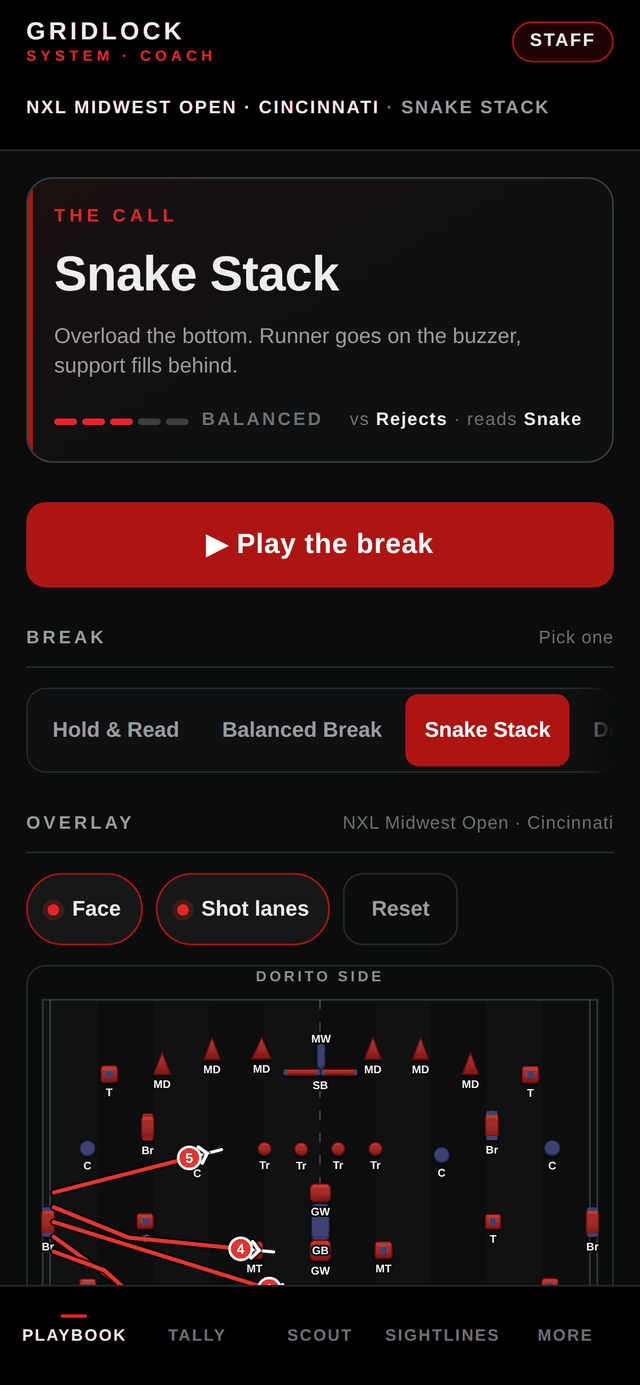
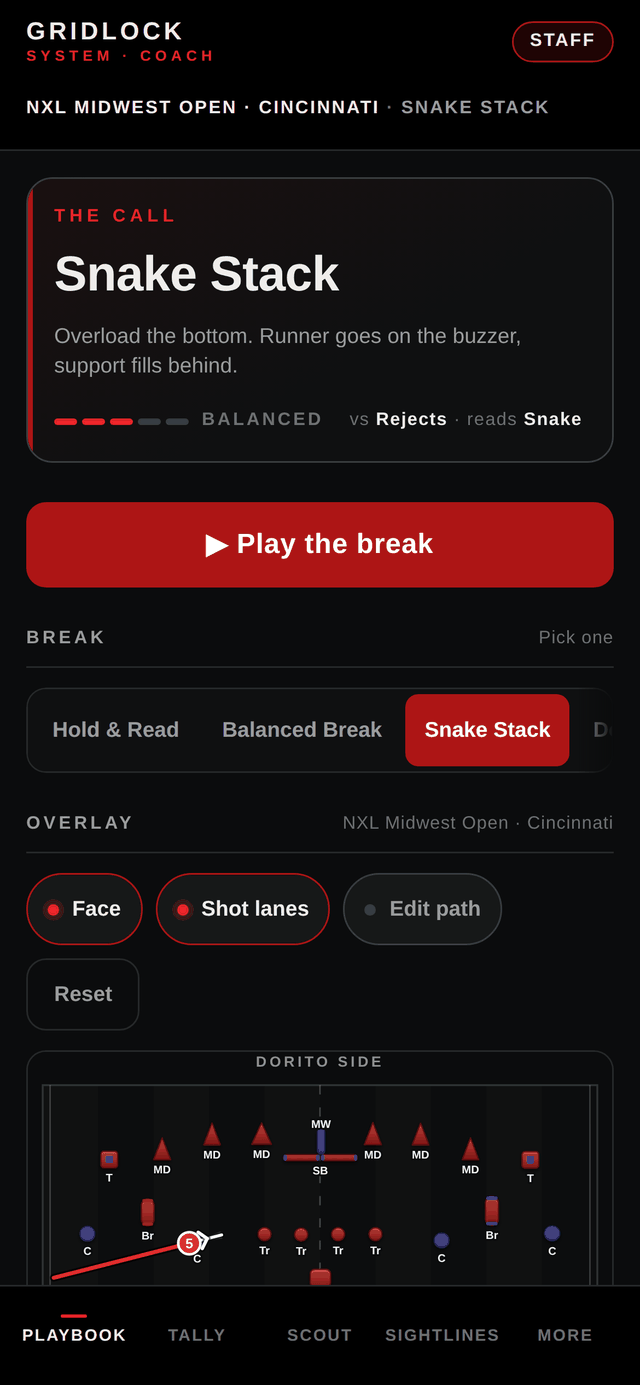
Let a coach edit the break on the field
The router works out a clear route, but the coach is the one who has walked the
field. Edit path turns every corner into a handle: drag it to move, tap it to
take it out, tap the line to put one in where you tapped, and drag a player to
point him. One path resets to the routed line, or all of them at once. Edits are
stored per layout per break per player, over the top of the route, so a leg
nobody has touched keeps the one the router proved clear.

Runs are drawn rounded now. A player does not turn a right angle, and five hard
corners on one field read as a diagram rather than a break. Rounding a corner
could in principle push the curve into the bunker the corner was avoiding, so
that is not left to the eye: the suite pulls the real path elements out of the
rendered SVG, samples them along their length, and checks every sample against
every measured footprint. All five clear.

Pointer events throughout, not mouse — the same code has to work under a thumb —
and positions convert through the SVG screen matrix rather than assuming a
scale. The drag is covered by a real pointer drag in the suite, because that is
the part most likely to break.

Two bugs found on the way: a `d` that shadowed the direction variable and made
the whole inline script fail to parse, and dataset ids arriving as text where
paths key on numbers, which made every lookup miss silently.

181/181 function checks, 61/61 device checks across 14 devices, 58/58 bunkers at
0.00 ft, load test within budget.
[…]

diff --git a/web/index.html b/web/index.html
@@ -245,6 +245,12 @@ select{appearance:none;-webkit-appearance:none;padding-right:var(--s5);
 /* ============================================================
    FIELD
    ============================================================ */
+/* Editing handles. Big enough to find under a thumb, quiet enough not to
+   fight the field when you are only looking at it. */
+.hnd{fill:#0b0c0d;stroke:#fff;stroke-width:1.6;cursor:grab}
+.hnd:active{cursor:grabbing}
+.aim{cursor:grab}
+svg.field [data-leg]{cursor:copy}
 .field-wrap{background:#0b0c0d;border:1px solid var(--line);border-radius:var(--r-md);overflow:hidden}
 svg.field{width:100%;height:auto;display:block}
 
@@ -612,10 +618,39 @@ function breakPaths(layoutKey, scriptKey){
             label: `${b.n} · ${wireOf(b.y)}`, bunker: b.id};
   });
 }
-const _pathCache = {};
+// A coach who disagrees with the route drags it. Edits are stored per layout
+// per break per player, over the top of the computed route, and any leg without
+// one keeps the route the router worked out.
+function pathKey(id){ return `${S.layoutKey}|${S.script}|${id}`; }
+function pathEdit(id){ return (S.pathEdits || {})[pathKey(id)] || null; }
+
+let _pathCache = {};
+function dropPathCache(){ _pathCache = {}; }
 function currentPaths(){
   const k = S.layoutKey + "|" + S.script;
-  return _pathCache[k] || (_pathCache[k] = breakPaths(S.layoutKey, S.script));
+  const routed = _pathCache[k] || (_pathCache[k] = breakPaths(S.layoutKey, S.script));
+  return routed.map(p => { const e = pathEdit(p.id); return e ? {...p, via:e, edited:true} : p; });
+}
+
+// A path is a run, not a set of corners: round every turn so it reads like a
+// player moving. The radius is capped at a third of the shorter leg, which
+// keeps the curve inside the corridor the router already proved clear —
+// test/functions.js samples the drawn curve and checks it against every bunker.
+function smoothD(pts, sx, sy){
+  const P = pts.map(q => [q[0] * sx, q[1] * sy]);
+  if(P.length < 3) return `M${P.map(q => q[0].toFixed(1) + " " + q[1].toFixed(1)).join("L")}`;
+  const R = 9;
+  let d = `M${P[0][0].toFixed(1)} ${P[0][1].toFixed(1)}`;
+  for(let i = 1; i < P.length - 1; i++){
+    const a = P[i - 1], b = P[i], c = P[i + 1];
+    const la = Math.hypot(b[0]-a[0], b[1]-a[1]), lc = Math.hypot(c[0]-b[0], c[1]-b[1]);
+    const r = Math.min(R, la / 3, lc / 3);
+    const p1 = [b[0] + (a[0]-b[0]) * r / la, b[1] + (a[1]-b[1]) * r / la];
+    const p2 = [b[0] + (c[0]-b[0]) * r / lc, b[1] + (c[1]-b[1]) * r / lc];
+    d += `L${p1[0].toFixed(1)} ${p1[1].toFixed(1)}Q${b[0].toFixed(1)} ${b[1].toFixed(1)} ${p2[0].toFixed(1)} ${p2[1].toFixed(1)}`;
+  }
+  const e = P[P.length - 1];
+  return d + `L${e[0].toFixed(1)} ${e[1].toFixed(1)}`;
 }
 
 // Heuristic rank, not a prediction. Two inputs a coach actually has: what the
@@ -1093,6 +1128,108 @@ function qrSVG(text, px){
 // still shows the URI, and the code is legible inside it.
 function joinLink(code){ return "gridlock://class/" + code; }
 
+// ---- editing the break on the field ----------------------------------------
+//
+// Pointer events, not mouse: the same code has to work under a thumb. The SVG
+// is scaled by its viewBox, so every position is converted through the screen
+// matrix rather than assumed.
+function fieldFeet(svg, ev){
+  const pt = svg.createSVGPoint();
+  pt.x = ev.clientX; pt.y = ev.clientY;
+  const p = pt.matrixTransform(svg.getScreenCTM().inverse());
+  return [Math.max(1, Math.min(149, p.x / 2)), Math.max(1, Math.min(119, p.y / 2))];
+}
+function setVia(id, via){
+  S.pathEdits = {...(S.pathEdits || {}), [pathKey(id)]: via};
+  save(S);
+}
+window.resetPath = id => {
+  const all = {...(S.pathEdits || {})};
+  delete all[pathKey(id)];
+  S.pathEdits = all; save(S); render();
+};
+window.resetAllPaths = () => {
+  const all = {...(S.pathEdits || {})};
+  currentPaths().forEach(p => delete all[pathKey(p.id)]);
+  S.pathEdits = all; save(S); render();
+};
+
+// One delegated listener on the app, so it survives every repaint.
+(function pathEditing(){
+  let drag = null;
+  const svgOf = el => el.closest("svg.field");
+  document.addEventListener("pointerdown", ev => {
+    if(!S.editPath || S.tab !== "playbook") return;
+    const h = ev.target.closest("[data-h],[data-aim],[data-leg]");
+    if(!h) return;
+    const svg = svgOf(h);
+    if(!svg) return;
+    ev.preventDefault();
+    const at = fieldFeet(svg, ev);
+    if(h.hasAttribute("data-aim")){
+      drag = {kind:"aim", id:Number(h.dataset.aim), moved:false};
+    } else if(h.hasAttribute("data-h")){
+      drag = {kind:"via", id:Number(h.dataset.h), i:Number(h.dataset.i), moved:false, at};
+    } else {
+      // Tapping the line itself adds a corner where you tapped, on the nearest leg.
+      const id = Number(h.dataset.leg);   // dataset is text; path ids are numbers
+      const p = currentPaths().find(x => x.id === id);
+      if(!p) return;
+      const pts = [p.from, ...(p.via || []), p.to];
+      let best = 0, bestD = Infinity;
+      for(let i = 0; i < pts.length - 1; i++){
+        const m = [(pts[i][0]+pts[i+1][0])/2, (pts[i][1]+pts[i+1][1])/2];
+        const d = Math.hypot(m[0]-at[0], m[1]-at[1]);
+        if(d < bestD){ bestD = d; best = i; }
+      }
+      const via = [...(p.via || [])];
+      via.splice(best, 0, at);
+      setVia(id, via);
+      drag = {kind:"via", id, i:best, moved:true, at};
+      paintField();
+    }
+    if(h.setPointerCapture) h.setPointerCapture(ev.pointerId);
+  });
+  document.addEventListener("pointermove", ev => {
+    if(!drag) return;
+    const svg = document.querySelector(".field-wrap[data-live] svg.field");
+    if(!svg) return;
+    const at = fieldFeet(svg, ev);
+    if(drag.kind === "via"){
+      const p = currentPaths().find(x => x.id === drag.id);
+      if(!p) return;
+      if(Math.hypot(at[0]-drag.at[0], at[1]-drag.at[1]) > 1.2) drag.moved = true;
+      const via = [...(p.via || [])];
+      via[drag.i] = at;
+      setVia(drag.id, via);
+    } else {
+      const p = currentPaths().find(x => x.id === drag.id);
+      if(!p) return;
+      const now = posAt(p, S.t);
+      const deg = Math.round(Math.atan2(at[1]-now[1], at[0]-now[0]) * 180 / Math.PI);
+      if(Math.abs(deg - (directOf(drag.id).face ?? 999)) < 1) return;
+      const all = {...(S.direct || {})};
+      all[directKey(drag.id)] = {...(all[directKey(drag.id)] || {}), face: deg};
+      S.direct = all; save(S); drag.moved = true;
+    }
+    paintField();
+  });
+  document.addEventListener("pointerup", () => {
+    if(!drag) return;
+    // A tap on a corner, with no drag, takes that corner out.
+    if(drag.kind === "via" && !drag.moved){
+      const p = currentPaths().find(x => x.id === drag.id);
+      if(p){
+        const via = [...(p.via || [])];
+        via.splice(drag.i, 1);
+        setVia(drag.id, via);
+      }
+    }
+    drag = null;
+    render();
+  });
+})();
+
 // ---- the walk: what you noticed standing on the field, against a bunker ----
 function walkNotes(){ return (S.walk || {})[S.layoutKey] || []; }
 const WIRES = ["The field", "Snake wire", "Snake side", "Centre", "Dorito side", "Dorito wire"];
@@ -1405,10 +1542,14 @@ function fieldSVG(opts={}){
   // Break paths. A dark casing under each line keeps it readable where it
   // crosses a bunker.
   const runner = (list, colour, offset) => list.map(p=>{
-    const pts=[p.from,...(p.via||[]),p.to].map(q=>`${(q[0]*sx).toFixed(1)},${(q[1]*sy).toFixed(1)}`).join(" ");
+    const legs=[p.from,...(p.via||[]),p.to];
+    const run=smoothD(legs, sx, sy);
     const xy=posAt(p,t), cx=xy[0]*sx, cy=xy[1]*sy;
-    let out = `<polyline fill="none" stroke="#000000" stroke-width="4.2" stroke-linecap="round" stroke-linejoin="round" opacity=".75" points="${pts}"/>`
-            + `<polyline fill="none" stroke="${colour}" stroke-width="2.2" stroke-linecap="round" stroke-linejoin="round" points="${pts}"/>`;
+    let out = `<path fill="none" d="${run}" stroke="#000000" stroke-width="4.2" stroke-linecap="round" stroke-linejoin="round" opacity=".75"/>`
+            + `<path fill="none" d="${run}" stroke="${colour}" stroke-width="2.2" stroke-linecap="round" stroke-linejoin="round"${offset===0&&opts.edit?` data-leg="${p.id}"`:""}/>`;
+    // In edit mode every corner is a handle: drag it, or tap it to take it out.
+    if(offset===0 && opts.edit) out += (p.via||[]).map((v,vi)=>
+      `<circle class="hnd" data-h="${p.id}" data-i="${vi}" cx="${(v[0]*sx).toFixed(1)}" cy="${(v[1]*sy).toFixed(1)}" r="5"/>`).join("");
     // Where the player is actually heading right now, so the chevron and the
     // lane travel with him instead of snapping to the plant.
     const a0=posAt(p,Math.max(0,t-0.02)), a1=posAt(p,Math.min(1,t+0.02));
@@ -1448,7 +1589,7 @@ function fieldSVG(opts={}){
       out += `<polyline points="${pts}" fill="none" stroke="#000" stroke-width="3.6" stroke-linecap="round" stroke-linejoin="round" opacity=".55"/>`
            + `<polyline points="${pts}" fill="none" stroke="#fff" stroke-width="1.8" stroke-linecap="round" stroke-linejoin="round"/>`;
     }
-    out += `<circle cx="${cx.toFixed(1)}" cy="${cy.toFixed(1)}" r="6" fill="${colour}" stroke="#fff" stroke-width="1.4"/>`
+    out += `<circle cx="${cx.toFixed(1)}" cy="${cy.toFixed(1)}" r="6" fill="${colour}" stroke="#fff" stroke-width="1.4"${offset===0&&opts.edit?` class="aim" data-aim="${p.id}"`:""}/>`
          + `<text x="${cx.toFixed(1)}" y="${(cy+2.6).toFixed(1)}" text-anchor="middle" font-size="7.5" fill="#fff" font-weight="700">${p.id+offset}</text>`;
     return out;
   }).join("");
@@ -1701,9 +1842,13 @@ function playbook(){
   ${sec("Overlay", `<div class="toggles">
       <button class="tgl ${S.faceOn?"on":""}" onclick="set({faceOn:!S.faceOn})"><i></i>Face</button>
       <button class="tgl ${S.shotOn?"on":""}" onclick="set({shotOn:!S.shotOn})"><i></i>Shot lanes</button>
+      <button class="tgl ${S.editPath?"on":""}" onclick="set({editPath:!S.editPath,playing:false})"><i></i>Edit path</button>
       <button class="btn btn--quiet" onclick="set({t:0,playing:false})">Reset</button>
     </div>
-    <div class="field-wrap" data-live>${fieldSVG()}</div>`, curLayout().name)}
+    ${S.editPath?`<p class="note">Drag a corner to move it, tap one to take it out, tap the line to add
+      one. Drag a player to point him. <button class="btn btn--danger" onclick="resetAllPaths()">Reset every
+      path</button></p>`:""}
+    <div class="field-wrap" data-live>${fieldSVG({edit:S.editPath})}</div>`, curLayout().name)}
 
   ${sec("Direct the five", `<div class="assigns">
       ${currentPaths().map((pth,i)=>{
@@ -1725,6 +1870,7 @@ function playbook(){
             </span>
             <button class="tgl ${d.face!=null?"on":""}" onclick="openPad('face','${pth.id}')"><i></i>${d.face!=null?FACE_GLYPH[d.face]:"Face"}</button>
             <button class="tgl ${d.shot?"on":""}" onclick="openPad('shot','${pth.id}')"><i></i>${shotB?esc(callOf(shotB)):"Shot"}</button>
+            ${pth.edited?`<button class="btn btn--danger" onclick="resetPath('${pth.id}')">Reset path</button>`:""}
           </span>
           ${open?`<div class="pad">
             ${FACE_PAD.map(([g,deg])=>`<button class="${deg===null?(d.face==null?"on":""):(d.face===deg?"on":"")}"
@@ -1760,7 +1906,7 @@ window.playPath = () => {
 // Repaint just the field SVGs. A full render() per frame rebuilt the entire
 // document — including the division table — sixty times a second.
 function paintField(){
-  const opts = S.tab==="scout" ? {both:true} : {};
+  const opts = S.tab==="scout" ? {both:true} : {edit:S.editPath};
   document.querySelectorAll(".field-wrap[data-live]").forEach(el=>{ el.innerHTML = fieldSVG(opts); });
 }
 

diff --git a/test/functions.js b/test/functions.js
@@ -161,8 +161,18 @@ const ROSTER = [
     window.set({ layoutKey: "not-a-field" }); const other = directOf("1").face;
     window.set({ layoutKey: "mwo" }); return other === undefined;
   }));
+  // A chevron per player, drawn twice: a dark casing under a white stroke, so
+  // it reads on a red bunker as well as on the black ground — two polylines a
+  // player. The runs
+  // themselves are <path> now that corners are rounded, so counting polylines
+  // counts chevrons and nothing else.
   check("face chevron is drawn when Face is on", await ev(() => {
-    window.set({ faceOn: true }); return (fieldSVG().match(/polyline/g) || []).length > currentPaths().length * 2;
+    window.set({ faceOn: true });
+    const on = (fieldSVG().match(/polyline/g) || []).length;
+    window.set({ faceOn: false });
+    const off = (fieldSVG().match(/polyline/g) || []).length;
+    window.set({ faceOn: true });
+    return on === currentPaths().length * 2 && off === 0;
   }));
   check("shot cone and target ring are drawn", await ev(() => {
     window.set({ shotOn: true }); const svg = fieldSVG(); return svg.includes("polygon") && svg.includes("stroke-dasharray=\"3 3\"");
@@ -536,6 +546,84 @@ const ROSTER = [
     return /Add your squad under Team/.test(document.querySelector(".main").textContent);
   }));
   await ev(s2 => window.set({ roster: s2, point: 1 }), SQUAD);
+
+  /* ----------------------------------------------------------- path editing */
+  G("Path editing");
+  await ev(() => window.set({ tab: "playbook", editPath: true, pathEdits: {}, t: 0.5, playing: false }));
+  await page.waitForTimeout(200);
+
+  // The corners are rounded so a path reads like a run rather than a set of
+  // right angles. Rounding must not push the curve into a bunker, so this
+  // samples what is actually drawn — the real path element, at 4 samples a
+  // foot — and checks every sample against every footprint.
+  const curve = await ev(() => {
+    const obs = routeObstacles(LAYOUTS.mwo.bunkers);
+    const svg = document.querySelector(".field-wrap[data-live] svg.field");
+    const paths = [...svg.querySelectorAll("path[stroke='#e5342f']")];
+    const bad = [];
+    paths.forEach((el, i) => {
+      const p = currentPaths()[i];
+      if(!p) return;
+      const holds = o => Math.abs(p.from[0]-o.x) <= o.hw && Math.abs(p.from[1]-o.y) <= o.hh;
+      const live = obs.filter(o => !o.ids.has(p.bunker) && !holds(o));
+      const L = el.getTotalLength();
+      let prev = null;
+      for(let d = 0; d <= L; d += L / Math.max(40, Math.round(L / 2))){
+        const q = el.getPointAtLength(d);
+        const cur = [q.x / 2, q.y / 2];                 // svg units -> feet
+        if(prev) for(const o of live)
+          if(segHitsBox(prev[0], prev[1], cur[0], cur[1], o.x, o.y, o.hw, o.hh)){ bad.push(`${p.id}:${o.n}`); break; }
+        prev = cur;
+      }
+    });
+    return { paths: paths.length, bad: [...new Set(bad)] };
+  });
+  check("the drawn curve is sampled on all five paths", curve.paths === 5, `${curve.paths} paths`);
+  check("rounding a corner never pushes the run into a bunker", curve.bad.length === 0, curve.bad.join(", "));
+
+  check("edit mode puts a handle on every corner", await ev(() => {
+    const corners = currentPaths().reduce((n, p) => n + (p.via || []).length, 0);
+    return document.querySelectorAll("circle.hnd").length === corners && corners > 0;
+  }));
+
+  // A real drag, with real pointer events, because that is the risky part.
+  const handle = page.locator("circle.hnd").first();
+  await handle.scrollIntoViewIfNeeded();
+  const hb = await handle.boundingBox();
+  await page.mouse.move(hb.x + hb.width / 2, hb.y + hb.height / 2);
+  await page.mouse.down();
+  await page.mouse.move(hb.x + 55, hb.y + 35, { steps: 8 });
+  await page.mouse.up();
+  await page.waitForTimeout(250);
+  check("dragging a corner moves it and marks the path edited", await ev(() =>
+    Object.keys(S.pathEdits || {}).length === 1 && currentPaths().some(p => p.edited)));
+  check("an edited path offers to go back to the routed one",
+        (await page.locator("button", { hasText: "Reset path" }).count()) === 1);
+
+  check("a corner can be added and taken out again", await ev(() => {
+    const p = currentPaths()[0];
+    const n0 = (p.via || []).length;
+    const via = [...(p.via || []), [40, 40]];
+    S.pathEdits = {...(S.pathEdits || {}), [pathKey(p.id)]: via};
+    save(S);
+    const added = (currentPaths()[0].via || []).length === n0 + 1;
+    via.pop();
+    S.pathEdits = {...(S.pathEdits || {}), [pathKey(p.id)]: via};
+    save(S);
+    return added && (currentPaths()[0].via || []).length === n0;
+  }));
+
+  check("a player can be pointed by dragging him", await ev(() => {
+    window.setDirect(1, "face", 135);
+    return directOf(1).face === 135;
+  }));
+
+  await ev(() => window.resetAllPaths());
+  check("resetting puts every path back on the routed line", await ev(() =>
+    Object.keys(S.pathEdits || {}).length === 0 && !currentPaths().some(p => p.edited)));
+  await ev(() => window.set({ editPath: false }));
+  check("the handles go away when editing is off", await ev(() =>
+    document.querySelectorAll("circle.hnd").length === 0));
 
   /* ------------------------------------------------------------------- QR */
   G("QR");

diff --git a/README.md b/README.md
@@ -125,7 +125,7 @@ Four suites, all driving the real app in a real browser:
 
 | Command | What it proves |
 |---|---|
-| `npm test` | 172 assertions across every interactive function — auth, gating, all five tabs, all eleven More destinations, Scout's four sub-tabs, the 8-way pad, tally, movement, assess, classes, league, persistence, layout integrity, break routing, the roster editor, the walk, code words, lineups, the QR encoder and the house rules. |
+| `npm test` | 181 assertions across every interactive function — auth, gating, all five tabs, all eleven More destinations, Scout's four sub-tabs, the 8-way pad, tally, movement, assess, classes, league, persistence, layout integrity, break routing, the roster editor, the walk, code words, lineups, path editing, the QR encoder and the house rules. |
 | `npm run test:devices` | Every iPhone since the SE 2, the iPad line, and two Android references — 14 devices x 5 tabs. Checks for sideways scroll, a tab bar off the viewport, any tap target under 44 px, and running text past 80 characters a line. Safe-area padding is asserted from the CSS, since Chromium has no notch to emulate. |
 | `npm run verify:bunkers` | Reads the drawn SVG back out of the browser and compares every footprint against the digitized map, by bunker id. Currently 58/58 at 0.00 ft. |
 | `npm run loadtest` | A full season seeded on a 4x-throttled CPU. See `docs/SCALING.md`. |
@@ -151,7 +151,9 @@ counter-picker derived from the opponent read and the match state, division
 board); Sightlines with real blocking geometry; the NXL 2026 Midwest Open
 layout digitized from the official labeled 2D (58 bunkers) with its own
 breakouts landing on real bunkers; the 8-way face pad, shot targets and P|S
-roles, stored per layout per break and drawn travelling with the player; team
+roles, stored per layout per break and drawn travelling with the player; path
+editing on the field — drag a corner, tap to remove one, tap the line to add
+one, drag a player to point him, reset back to the routed line; team
 bunker calls that overlay the official codes everywhere; Movement rotations
 drawn on the field; Assess grading with per-player averages; Bunker stats built
 from tally and movement with a heat overlay; an editable roster; Lineups that
@@ -168,8 +170,7 @@ Roadmap, per `CLAUDE.md` — not built, and deliberately not advertised on the
 landing page:
 
 1. Scout 1:1 with the dual-pit screenshots in the spec
-2. Path erase / smooth / aim drag on Playbook
-3. SwiftUI parity in `ios-native/`, then Android Compose
+2. SwiftUI parity in `ios-native/`, then Android Compose
 
 Every other destination now holds real data rather than placeholder copy.
 

diff --git a/CLAUDE.md b/CLAUDE.md
@@ -58,7 +58,7 @@ More: Walk, Lineups, Movement, Assess, Codes, Bunker stats, Team, Messages, Clas
 1. Match Scout 1:1 to the dual-pit screenshots in the spec (anticipate cards, counter-picker, division board already sketched in web).
 2. ~~Playbook 8-way face/shot pad + P|S roles.~~ Done — Face opens the eight, Shot
    targets a named bunker, P|S are real toggles, all stored per layout per break.
-   Path erase/smooth edit is still open.
+   Path editing is done too — see 6.
 3. ~~Per-layout unique paths for every seeded break.~~ Done for the Midwest Open —
    breaks are written as the bunker each player plants on, in `BREAK_PLANTS`.
 4. ~~Bunker naming on the field + bunker stats heat.~~ Done — Team sets the call,
@@ -67,7 +67,11 @@ More: Walk, Lineups, Movement, Assess, Codes, Bunker stats, Team, Messages, Clas
    code for `gridlock://class/<code>`, the deep link both platforms register.
    The encoder is hand-written (the app has no network) and its output is
    pinned in the suite against a matrix verified by an outside decoder.
-6. Path erase / smooth / aim drag on Playbook.
+6. ~~Path erase / smooth / aim drag on Playbook.~~ Done — Edit path turns every
+   corner into a handle: drag to move, tap to take out, tap the line to add one,
+   drag a player to point him, and reset one path or all of them back to the
+   routed line. Corners are rounded so a run reads like a run; the suite samples
+   the drawn curve and checks it still clears every bunker.
 7. Bring iOS SwiftUI up to web parity, then Android Compose.
 
 ## Data (persist in localStorage for web; SwiftData/Room later)
